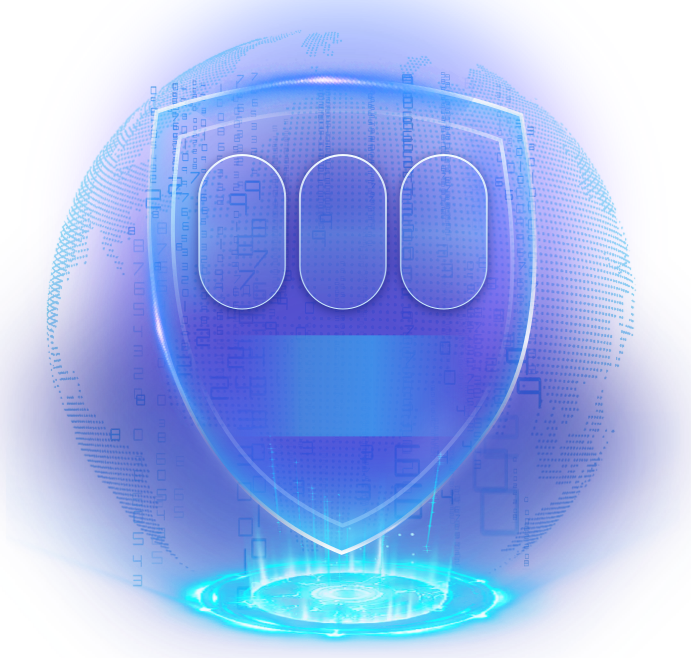
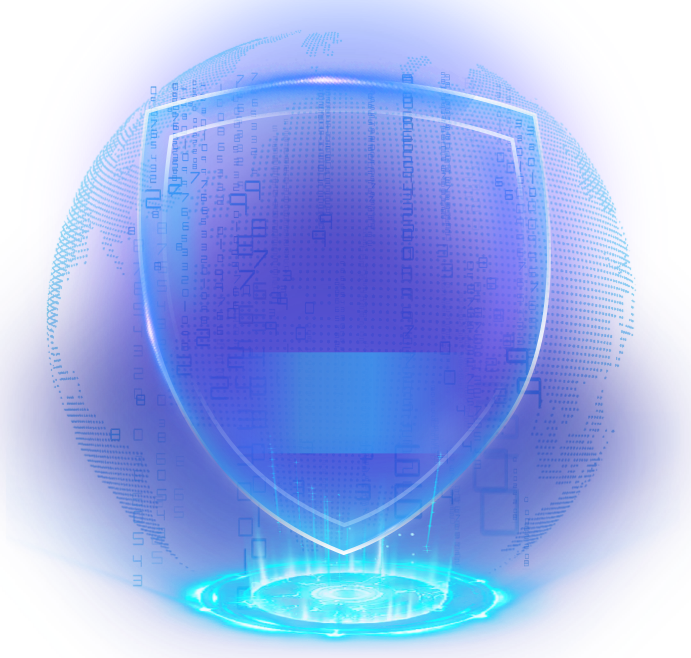
fix: ui图更新

diff --git a/components/board/security.vue b/components/board/security.vue
@@ -2,7 +2,7 @@
   <div class="security">
     <div class="num">
       <div class="num-item" v-for="(item, index) in date" :key="index">
-        {{date[index]}}
+        <div class="text">{{ date[index] }}</div>
       </div>
     </div>
     <div class="content">
@@ -84,21 +84,30 @@ export default {
   width: px2vw(236px);
   height: px2vh(80px);
   margin: 0 auto;
-  padding-top: px2vh(200px);
   margin-bottom: px2vh(105px);
+  margin-top: px2vh(180px);
   color: #fff;
   text-align: center;
   justify-content: space-evenly;
 
   &-item {
-    width: px2vw(60px);
-    height: px2vh(80px);
-    background-color: #1D91FF;
-    border-radius: 8px;
-    font-size: px2vh(60px);
-    line-height: px2vh(80px);
-    font-weight: 600;
-    margin: 0 px2vw(4px);
+    width: px2vw(86px);
+    height: px2vh(138px);
+    background: linear-gradient(180deg, rgba(52, 143, 255, 0.47) 0%, rgba(112, 151, 255, 0.41) 37%, rgba(47, 32, 185, 0.7) 100%);
+    box-shadow: 0px 2px 11px 0px rgba(0, 16, 88, 0.5);
+    border-radius: px2vw(47px);
+    border: 1px solid;
+    // border-image: linear-gradient(180deg, rgba(167, 231, 255, 0.18), rgba(208, 238, 255, 1)) 1 1;
+    margin: 0 px2vw(3px);
+    .text {
+      width: px2vw(80px);
+      height: px2vh(130px);
+      font-size: px2vh(90px);
+      font-weight: bold;
+      color: #FFFFFF;
+      line-height: px2vh(130px);
+      text-shadow: 0px px2vw(2px) px2vw(16px) #609AFF;
+    }
   }
 }
 
@@ -113,6 +122,6 @@ export default {
   font-size: px2vw(39px);
   font-weight: 500;
   line-height: px2vh(40px);
-  margin-top: px2vh(150px);
+  margin-top: px2vh(90px);
 }
 </style>

diff --git a/components/data/stock.vue b/components/data/stock.vue
@@ -189,7 +189,7 @@ export default {
                     }
                   ]
                 },
-                borderRadius: [0, 10, 10, 0]
+                borderRadius: [0, colWidth(0.5), colWidth(0.5), 0]
               }
             },
             {
@@ -218,7 +218,7 @@ export default {
                     }
                   ]
                 },
-                borderRadius: [0, 10, 10, 0]
+                borderRadius: [0, colWidth(0.5), colWidth(0.5), 0]
               }
             },
           ],
@@ -286,8 +286,8 @@ export default {
 
 
 .stock {
-  background: url(../../assets/img/volume.png) rgba($color: blue, $alpha: 0.04) no-repeat;
-  background-size: 100%;
+  background: url(../../assets/data//stock/bg.png) no-repeat;
+  background-size: px2vw(3915px) px2vh(542px);
 }
 
 .banner {
